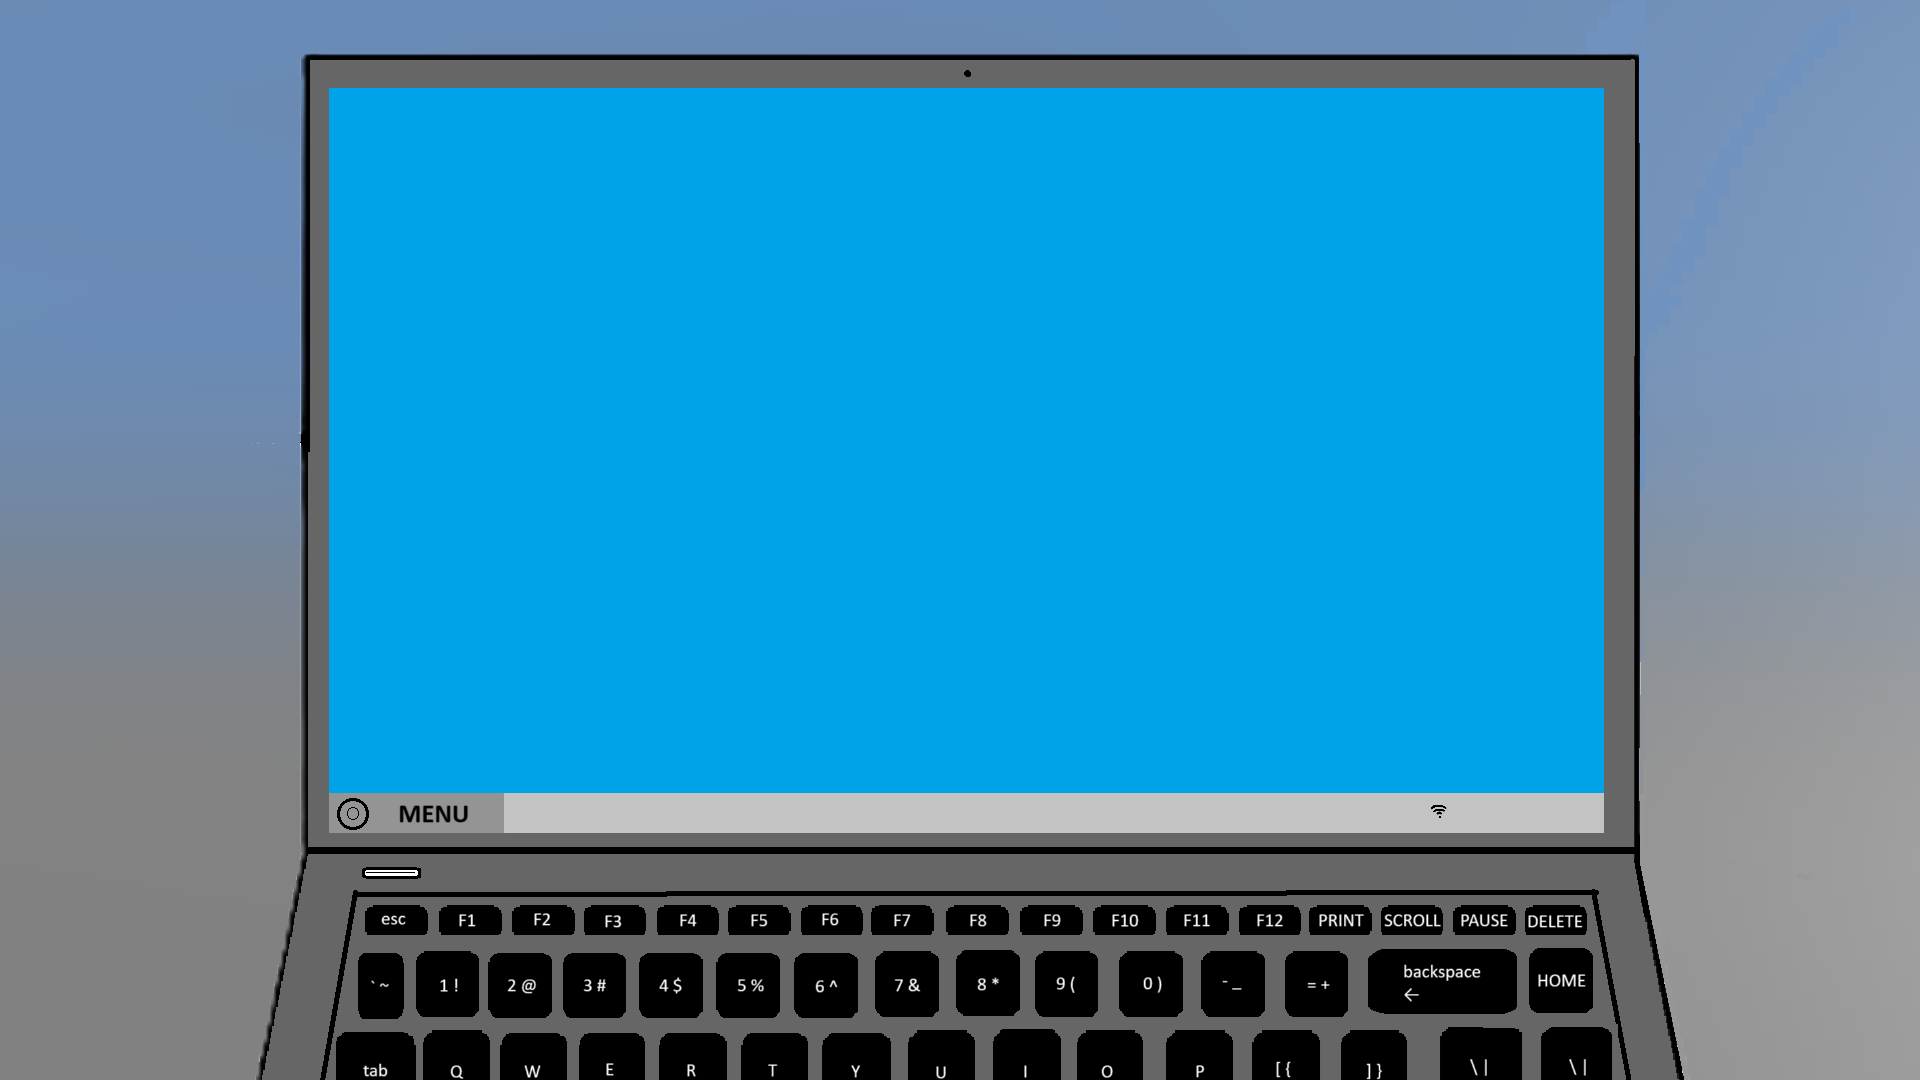
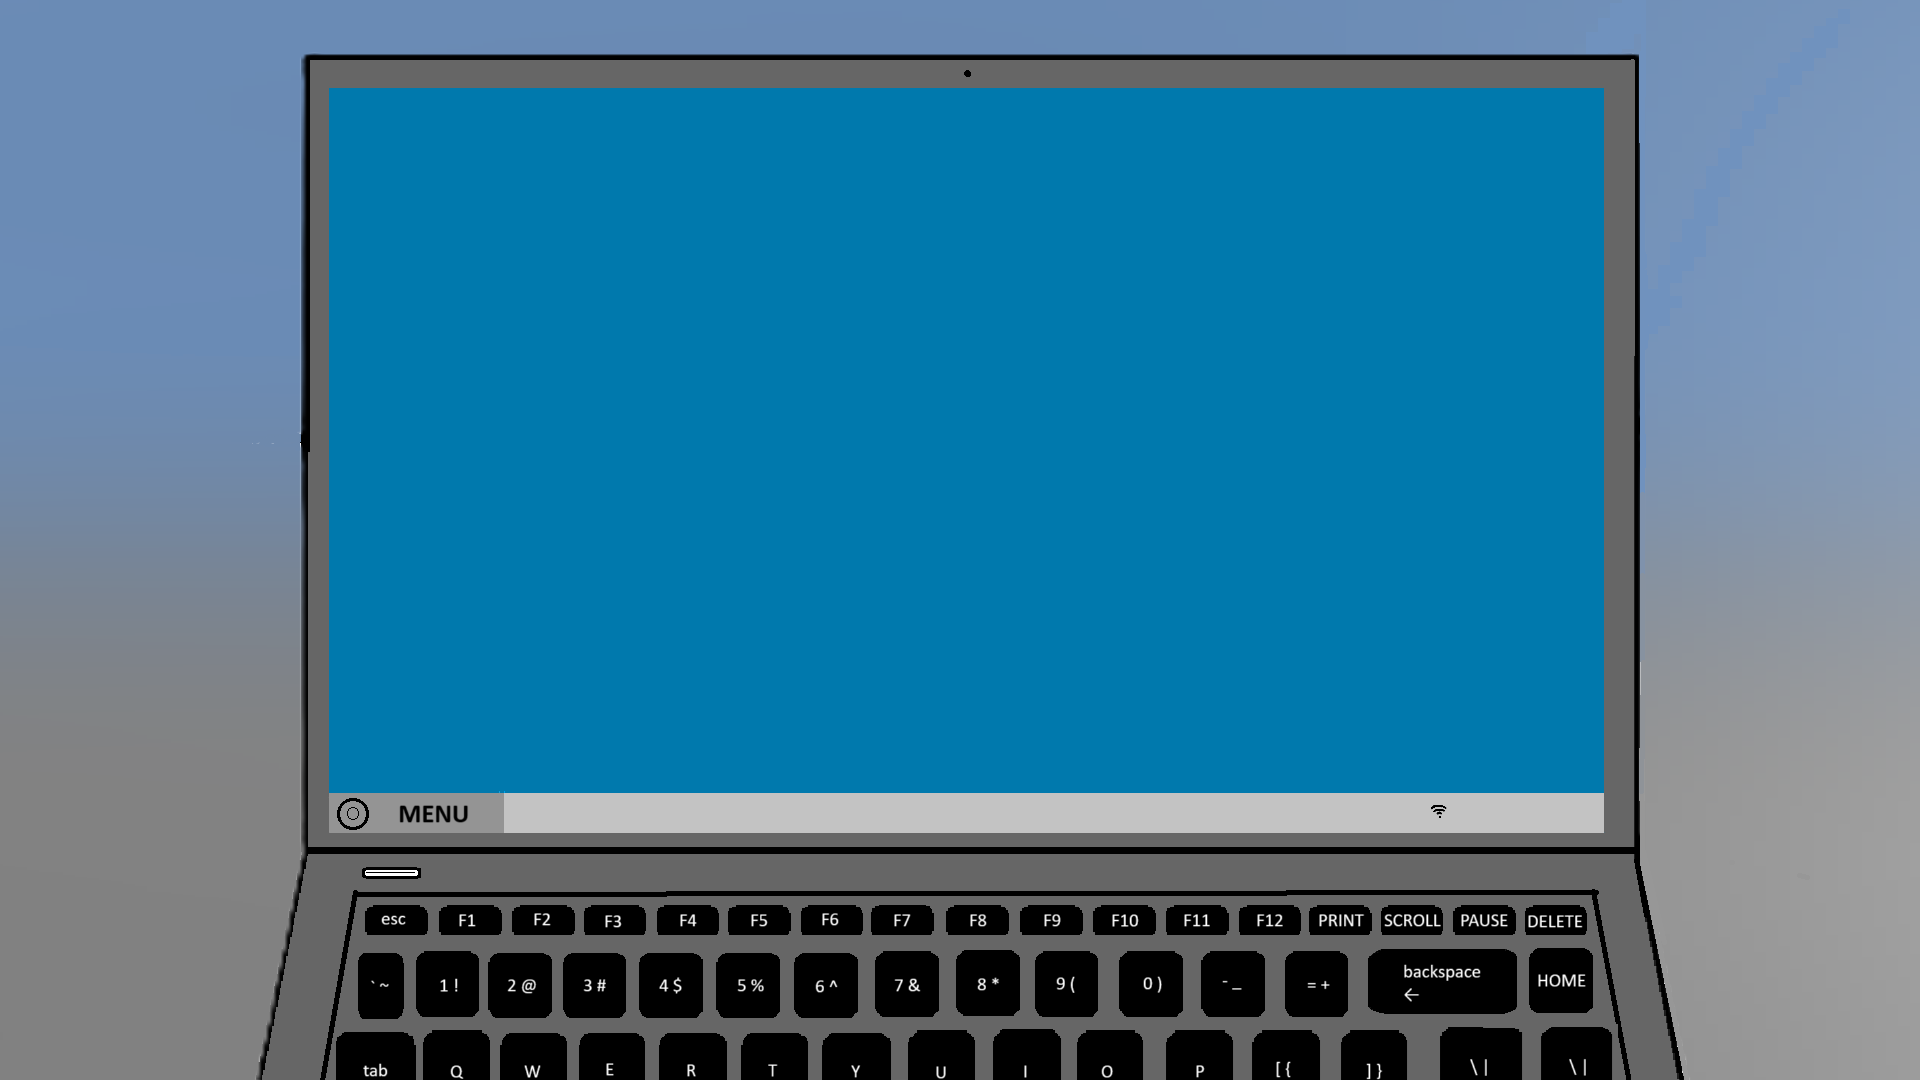
pridani ikony her

diff --git a/source/laptop/laptop.py b/source/laptop/laptop.py
@@ -55,9 +55,14 @@ battery_minus = rozliseni_sirka / 170
 posledni_akce = pygame.time.get_ticks()
 clock = pygame.time.Clock()
 
+
+controler_icon = pygame.image.load('ChatGPT Image 13. 4. 2025 18_38_36.png').convert()
+controler_icon = pygame.transform.scale(controler_icon, (80, 80))
+
 # --- HLAVNÍ SMYČKA ---
 while True:
     screen.blit(background_image, (0, 0))
+    screen.blit(controler_icon, (350, 130))
     if jmeno_pole_visible:
         screen.blit(jmeno, (rozliseni_sirka / 5.25, rozliseni_vyska / 4))
 
